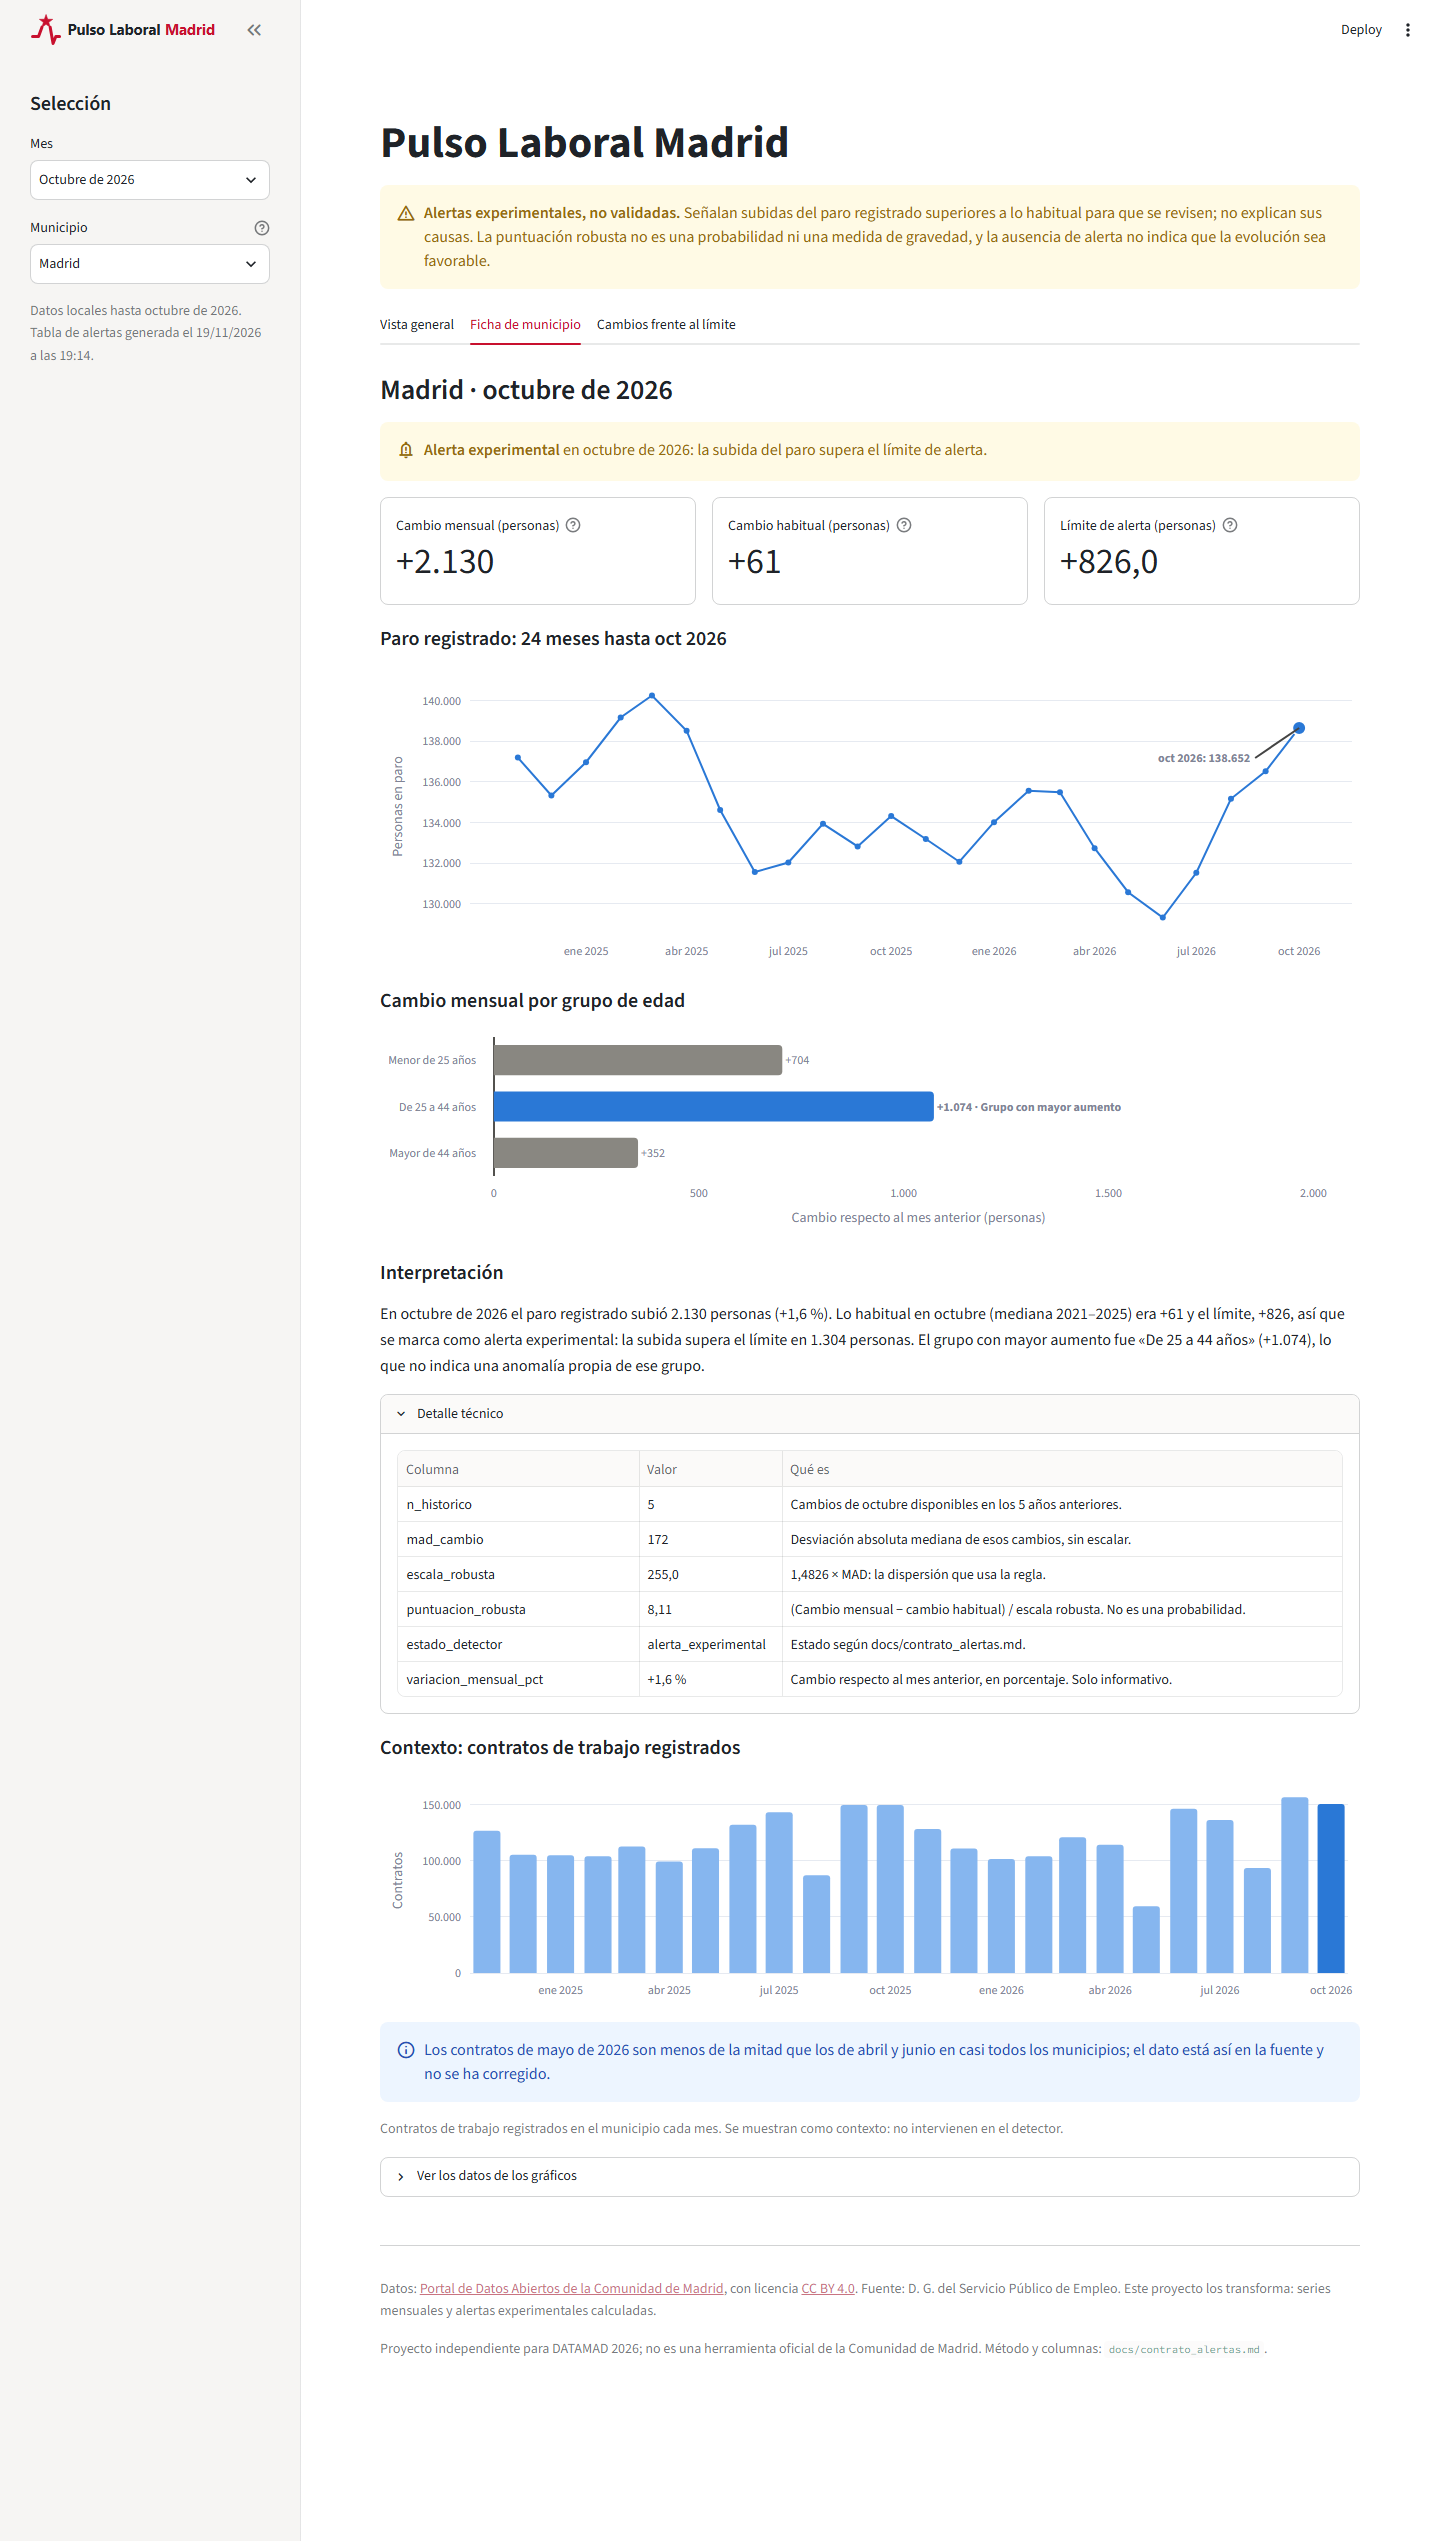
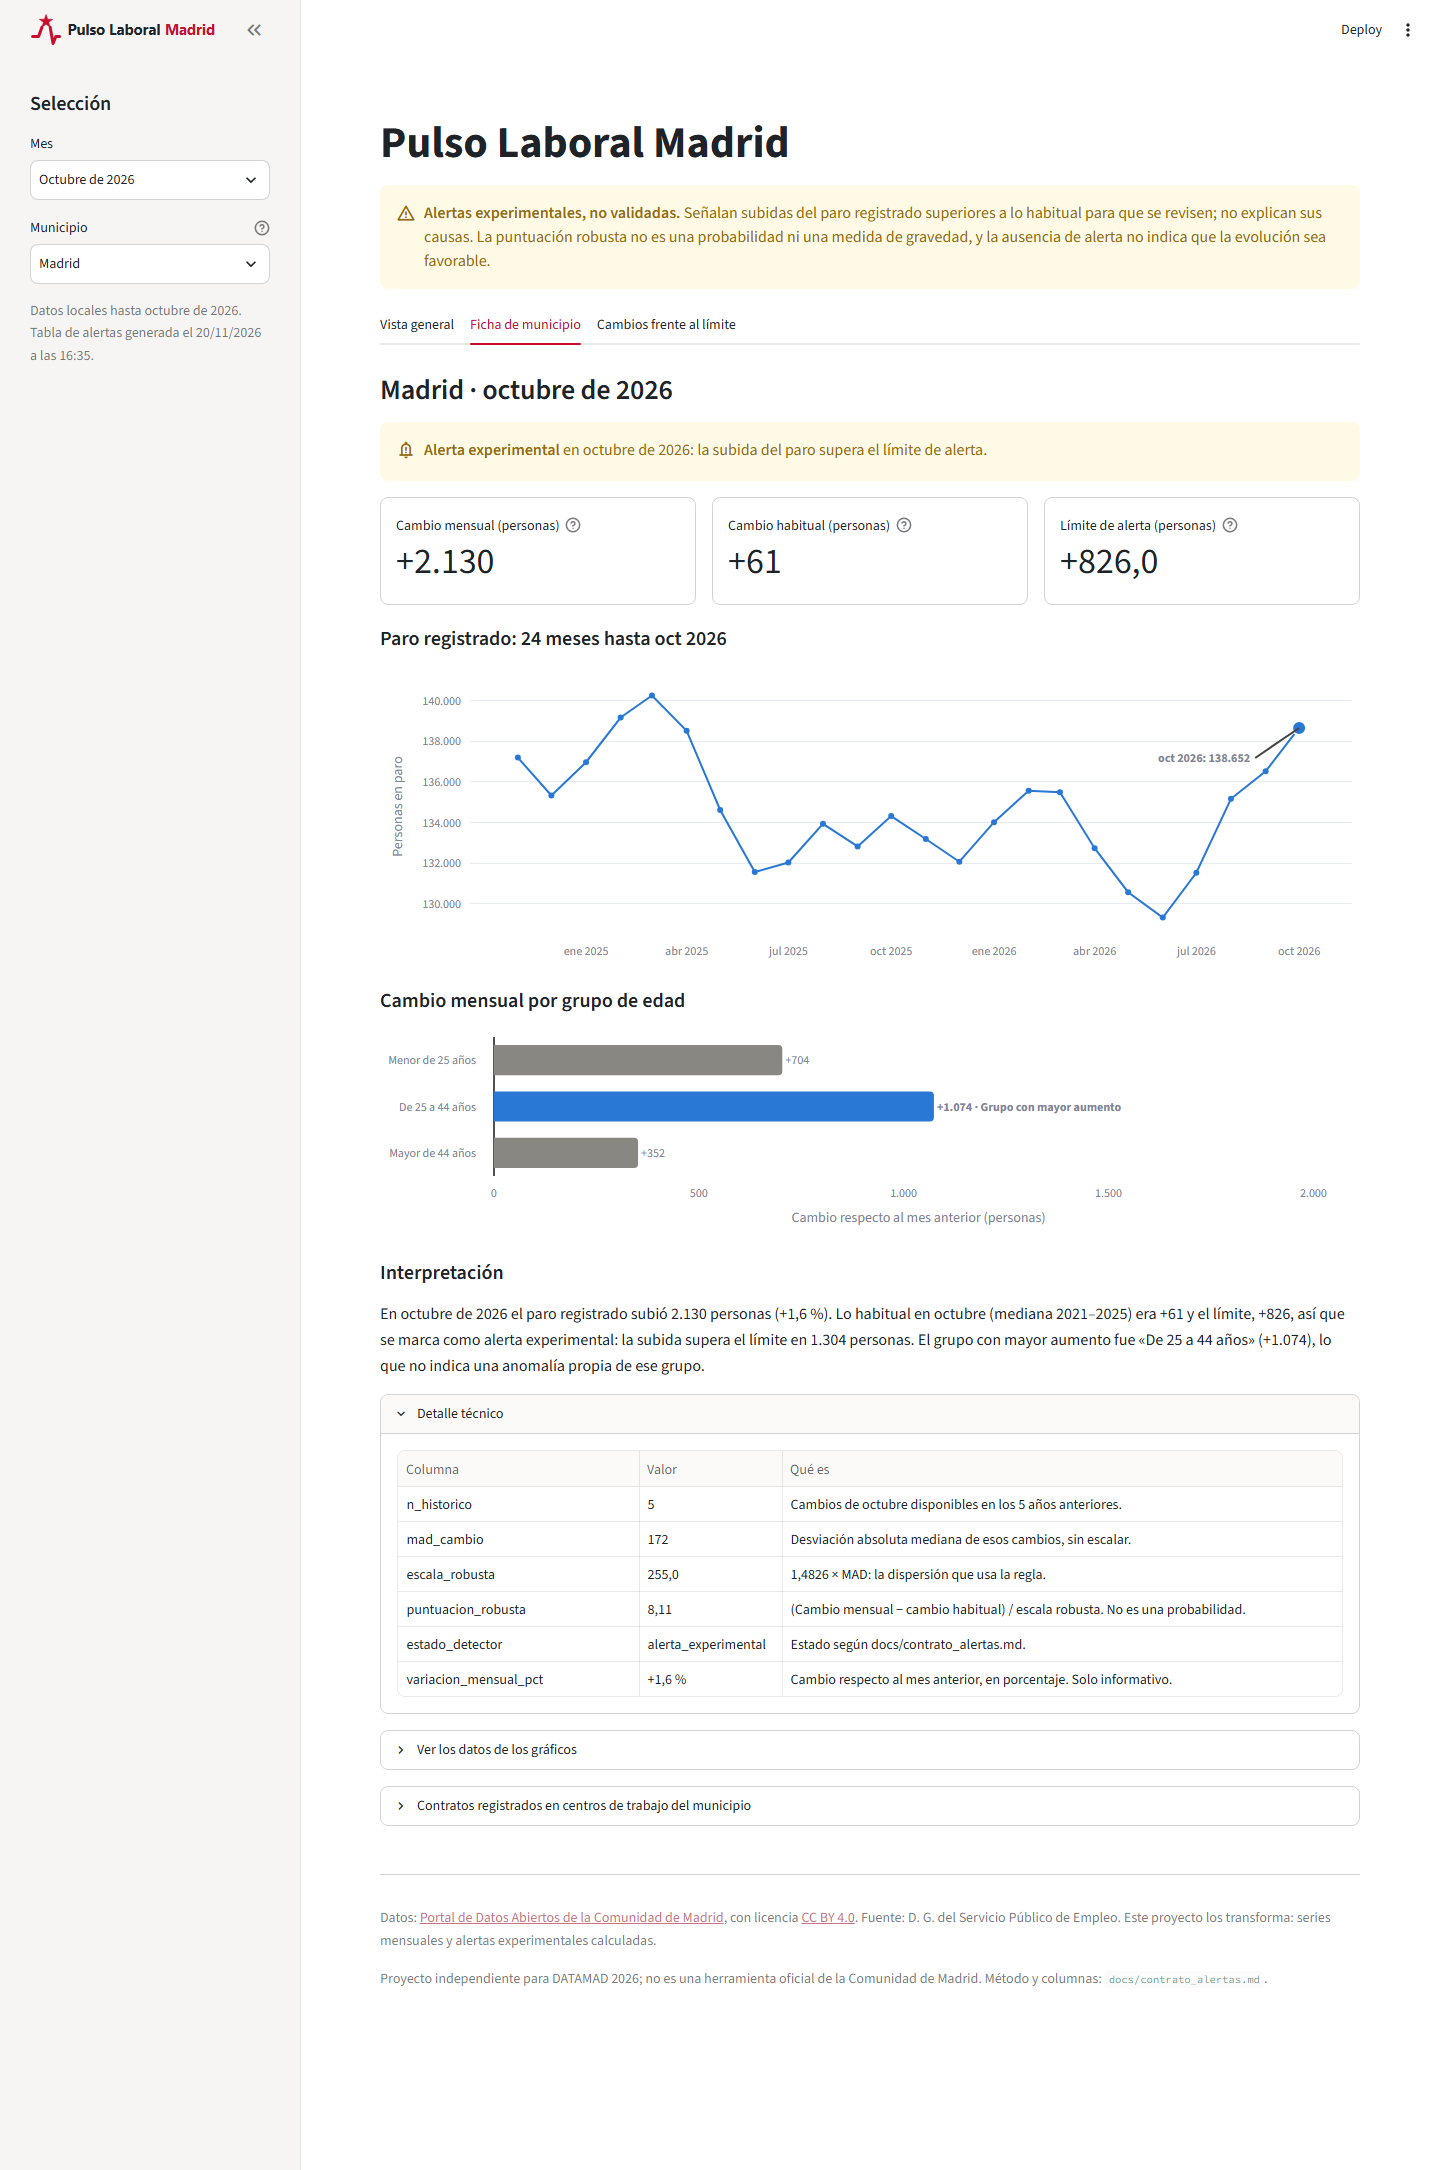
Lleva los contratos a una sección aparte de la ficha y documenta cómo se asignan al territorio

diff --git a/app.py b/app.py
@@ -31,6 +31,17 @@ AVISO = (
     "favorable."
 )
 
+# Los contratos se agrupan por el centro de trabajo y cuentan contratos, no
+# personas: no miden lo mismo que el paro. Por eso van en una sección aparte,
+# plegada, al final de la ficha (docs/decisiones.md, 20/11/2026).
+TITULO_CONTRATOS = "Contratos registrados en centros de trabajo del municipio"
+TEXTO_CONTRATOS = (
+    "Esta serie recoge los contratos comunicados cada mes en centros de trabajo "
+    "situados en el municipio, vivan donde vivan las personas contratadas. Se "
+    "cuentan contratos, no personas. Por eso no es directamente comparable con "
+    "el paro registrado, que cuenta personas."
+)
+
 ETIQUETAS = {
     "municipio": "Municipio",
     "fecha": "Mes",
@@ -437,27 +448,29 @@ def ficha(alertas, fecha, municipio, paro_edad, contratos, paleta):
     with st.expander("Detalle técnico"):
         st.dataframe(datos.detalle_tecnico(fila), hide_index=True, width="stretch")
 
-    st.markdown("##### Contexto: contratos de trabajo registrados")
-    serie_contratos = None
-    if contratos is None:
-        avisar_datos_procesados("los contratos")
-    else:
+    with st.expander("Ver los datos de los gráficos"):
+        mostrar_tabla(datos.tabla_datos_ficha(serie))
+        if cambios is not None and not cambios.empty:
+            mostrar_tabla(cambios)
+
+    contratos_del_municipio(contratos, municipio, fecha, paleta)
+
+
+def contratos_del_municipio(contratos, municipio, fecha, paleta):
+    """Sección final y plegada: los contratos no son comparables con el paro."""
+    with st.expander(TITULO_CONTRATOS, expanded=False):
+        st.markdown(TEXTO_CONTRATOS)
+        if contratos is None:
+            avisar_datos_procesados("los contratos")
+            return
+
         serie_contratos = datos.contratos_municipio(contratos, municipio, fecha, MESES_FICHA)
         grafico(graficos.figura_contratos(serie_contratos, fecha, paleta))
         for aviso in datos.avisos_contratos(municipio, serie_contratos):
             st.info(aviso, icon=":material/info:")
-        st.caption(
-            "Contratos de trabajo registrados en el municipio cada mes. Se "
-            "muestran como contexto: no intervienen en el detector."
-        )
-
-    with st.expander("Ver los datos de los gráficos"):
-        if serie_contratos is not None:
-            mostrar_tabla(datos.tabla_datos_ficha(serie, serie_contratos))
-        else:
-            mostrar_tabla(serie[["fecha", "paro_total", "cambio_mensual"]].iloc[::-1])
-        if cambios is not None and not cambios.empty:
-            mostrar_tabla(cambios)
+        st.caption("No intervienen en el detector ni en las alertas.")
+        # Streamlit no permite un desplegable dentro de otro: la tabla va a la vista.
+        mostrar_tabla(datos.tabla_contratos(serie_contratos), filas_visibles=6)
 
 
 # ---------------------------------------------------------------

diff --git a/src/datos_app.py b/src/datos_app.py
@@ -428,11 +428,16 @@ def avisos_contratos(municipio, serie_contratos):
     return avisos
 
 
-def tabla_datos_ficha(serie, contratos):
-    """Valores de los gráficos de la ficha, como tabla."""
-    tabla = serie[["fecha", "paro_total", "cambio_mensual"]].merge(
-        contratos[["fecha", "contratos"]], on="fecha", how="left"
-    )
+def tabla_datos_ficha(serie):
+    """Valores del gráfico de paro de la ficha, como tabla. Sin los contratos:
+    no se presentan junto al paro porque no miden lo mismo."""
+    tabla = serie[["fecha", "paro_total", "cambio_mensual"]]
+    return tabla.sort_values("fecha", ascending=False).reset_index(drop=True)
+
+
+def tabla_contratos(serie_contratos):
+    """Valores del gráfico de contratos, como tabla."""
+    tabla = serie_contratos[["fecha", "contratos"]]
     return tabla.sort_values("fecha", ascending=False).reset_index(drop=True)
 
 

diff --git a/src/graficos_app.py b/src/graficos_app.py
@@ -169,7 +169,8 @@ def figura_edad(cambios, grupo_principal, p):
 
 
 def figura_contratos(serie, fecha, p):
-    """Contratos registrados, como contexto. El mes elegido, destacado."""
+    """Contratos registrados en centros de trabajo del municipio, en su propio
+    gráfico: sin eje compartido ni cocientes con el paro. El mes elegido, destacado."""
     fig = go.Figure()
     fig.add_bar(
         x=serie["fecha"],

diff --git a/docs/fuentes_datos.md b/docs/fuentes_datos.md
@@ -11,6 +11,25 @@ noviembre de 2026 (municipios y límites municipales).
 - Archivo local: datos/originales/paro_edad_municipio.csv
 - Uso previsto: serie principal del análisis de paro y desglose por edad.
 - Periodo temporal y cobertura: pendientes de comprobar en el CSV.
+- Asignación al territorio: la ficha del dataset no indica a qué municipio
+  se asigna cada persona en paro; su descripción es «Sin información
+  adicional.». Las notas metodológicas del Ayuntamiento de Madrid y del
+  Instituto Aragonés de Estadística, que trabajan con datos del SEPE, lo
+  asignan al municipio de residencia del parado:
+  - Ayuntamiento de Madrid, para la estadística de la ciudad de Madrid, en
+    la definición de municipio de residencia:
+    > Municipio en el que reside el demandante de empleo en su inscripción
+  - Instituto Aragonés de Estadística:
+    > El domicilio utilizado para la distribución del paro registrado
+    > municipal es el de residencia de cada uno de los parados.
+
+  Es probable que este dataset siga el mismo criterio, pero la fuente no lo
+  confirma. Fuentes:
+  - Ayuntamiento de Madrid, notas metodológicas del paro registrado de la
+    ciudad de Madrid:
+    https://www.madrid.es/UnidadesDescentralizadas/UDCEstadistica/Nuevaweb/Mercado%20de%20Trabajo/Paro/nuevo%20paro/2024%20y%202025/NOTAS%20METODOL%C3%93GICAS%20PARO%20REGISTRADO%20AYUNTAMIENTO%20DE%20MADRID.pdf
+  - Instituto Aragonés de Estadística, «Paro registrado. Metodología»:
+    https://www.aragon.es/documents/20127/674325/Paro_registrado_Metodologia.pdf/90b8117b-0309-75dd-f49c-ba8df018308c
 
 ## Contratos de trabajo por municipio
 
@@ -20,6 +39,27 @@ noviembre de 2026 (municipios y límites municipales).
 - Archivo local: datos/originales/contratos_municipio.csv
 - Uso previsto: información complementaria sobre contratación.
 - Periodo temporal y cobertura: pendientes de comprobar en el CSV.
+- Asignación al territorio y unidad: los contratos se agrupan por la
+  localidad del centro de trabajo, vivan donde vivan las personas
+  contratadas, y se cuentan contratos, no personas. La ficha del dataset no
+  lo explica; solo indica «Unidad: Contratos». Lo dicen las notas
+  metodológicas del Cuadro de Mando de Entidades Locales de la D. G. del
+  Servicio Público de Empleo (versión v09), que usan la misma Estadística de
+  Contratos Registrados:
+  > Los datos estadísticos de contratos de un mes determinado son los
+  > comunicados por las personas empresarias durante ese mes
+  > (independientemente de cuando se inicie el contrato) y son agrupados
+  > según la localidad del centro de trabajo.
+
+  > Personas contratadas: Las personas únicas que han firmado un contrato
+  > registrado durante el periodo de referencia.
+
+  Consultadas el 20/11/2026 en
+  https://www.comunidad.madrid/docs/assets/2024/12/04/notas_metodologicas_v09.pdf,
+  enlazadas desde
+  https://www.comunidad.madrid/empleo/estadisticas-mercado-trabajo.
+  Por eso los contratos y el paro no son directamente comparables, y la
+  ficha muestra los contratos aparte (docs/decisiones.md, 20/11/2026).
 - Notas del portal, copiadas literalmente el 19/11/2026:
   > A partir de octubre de 2021, la categoría "No distribuidos" incluye
   > cuidadoras no profesionales, así como las categorías "Otras provincias"

diff --git a/docs/decisiones.md b/docs/decisiones.md
@@ -133,3 +133,28 @@ tales hasta que se adopten.
   alerta, naranja alerta experimental, gris no evaluable), comprobados con
   un validador de paletas para daltonismo en modo claro y oscuro. No se
   añaden categorías.
+
+### 20/11/2026 — Contratos fuera de la parte principal de la ficha
+
+- Planteamiento de Roman: el paro y los contratos no miden la misma
+  población. Según las notas metodológicas, el paro registrado se asigna al
+  municipio de residencia de la persona y los contratos, a la localidad del
+  centro de trabajo. Además, se cuentan contratos, no personas.
+- Comprobación (docs/fuentes_datos.md): la agrupación de los contratos por
+  el centro de trabajo y la diferencia entre contratos y personas constan en
+  las notas metodológicas v09 de la D. G. del Servicio Público de Empleo. La
+  asignación del paro a la residencia la recogen las notas del Ayuntamiento
+  de Madrid y del Instituto Aragonés de Estadística, con datos del SEPE; para
+  este dataset es probable, pero la fuente no lo confirma.
+- Decisión: sacar los contratos de la parte principal de la ficha. Esa
+  parte muestra solo el paro: estado del mes, cifras, evolución, edades,
+  interpretación y detalle técnico.
+- Los contratos pasan a una sección al final de la ficha, plegada por
+  defecto: «Contratos registrados en centros de trabajo del municipio». Un
+  texto explica qué recoge la serie y por qué no es directamente comparable
+  con el paro, y se mantienen los avisos de las incidencias de mayo de 2026
+  y de Velilla de San Antonio (19/11/2026).
+- Sin doble eje ni cocientes entre contratos y paro. La tabla con los datos
+  de los gráficos del paro ya no incluye los contratos: tienen su propia
+  tabla en la sección.
+- Los contratos siguen sin intervenir en el detector.
